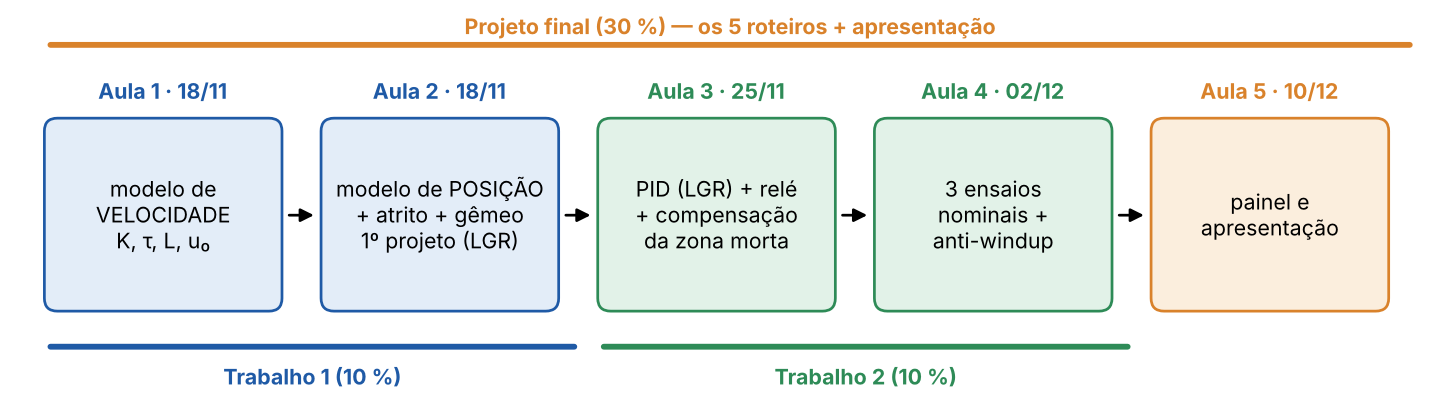
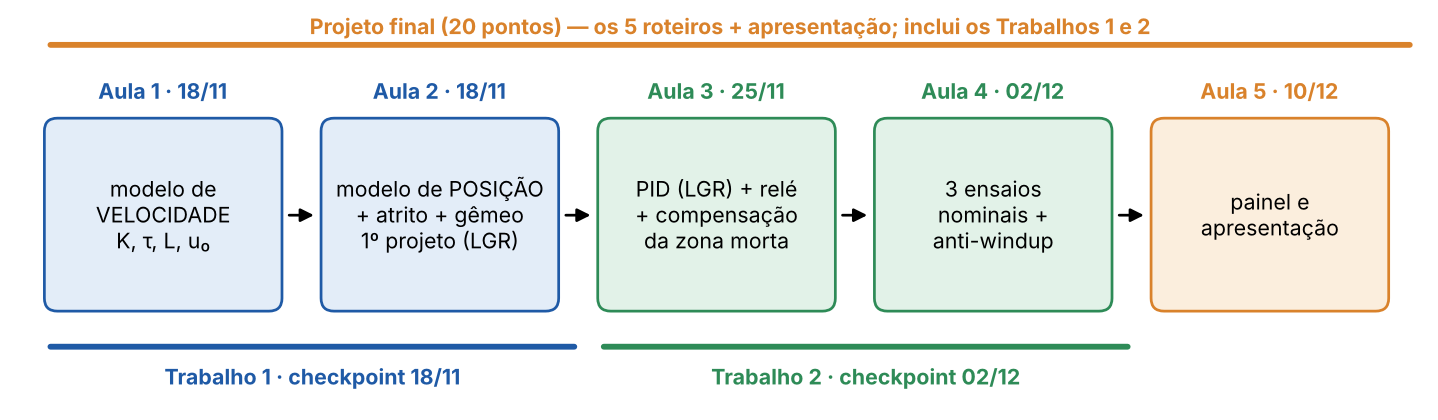
Update from https://github.com/fabiobento/lab-cont-2026-2-privado/commit/57be1e97659de1fd22e9d5a4aa9535d9d6297601

Changed region(s): [[0.2142, 0.031, 0.7955, 0.0929], [0.0918, 0.8667, 0.3366, 0.9286], [0.4896, 0.8667, 0.7038, 0.9286]]

diff --git a/projeto_final/projeto_final_motor_cc.md b/projeto_final/projeto_final_motor_cc.md
@@ -62,7 +62,7 @@ Para o **degrau de 90°** do perfil (0° → 90°):
 
 | # | Especificação | Valor |
 |---|---|---|
-| 1 | erro de regime | $`\|e_{ss}\| < 2°`$ |
+| 1 | erro de regime | $|e_{ss}| < 2°$ |
 | 2 | sobressinal | $`M_p \le 15\%`$ |
 | 3 | tempo de acomodação (critério de ±5 %) | $t_s \le 2{,}5$ s |
 | 4 | sem *windup* visível | com o PWM limitado a ±80, o sobressinal cresce no máximo **5 pontos percentuais** em relação ao ensaio nominal, com o anti-windup ligado |
@@ -104,11 +104,11 @@ sempre o mesmo computador ou levem a pasta junto.
 
 ## 6. Avaliação (por bancada)
 
-| Nota (peso na média semestral) | O que é avaliado | Quando |
+| Etapa da nota do projeto final (20 pontos no semestre) | O que é avaliado | Quando |
 |---|---|---|
-| **Trabalho 1** (10 %) | roteiros das Aulas 1 e 2: firmware e teste de sentido, calibração, FOPDT com e sem desvio, modelo de posição, zona morta e atrito, gêmeo validado, iteração 1 e a explicação da falha | Checkpoint 2 (18/11) |
-| **Trabalho 2** (10 %) | roteiros das Aulas 3 e 4: PID pelo lugar das raízes, relé e Ziegler-Nichols, compensação e robustez, especificações 1–4 na bancada, medido × simulado | Checkpoint 4 (02/12) |
-| **Projeto final** (30 %) | os 5 roteiros completos + apresentação e arguição | Aula 5 (10/12) |
+| **Trabalho 1** (checkpoint) | roteiros das Aulas 1 e 2: firmware e teste de sentido, calibração, FOPDT com e sem desvio, modelo de posição, zona morta e atrito, gêmeo validado, iteração 1 e a explicação da falha | Checkpoint 2 (18/11) |
+| **Trabalho 2** (checkpoint) | roteiros das Aulas 3 e 4: PID pelo lugar das raízes, relé e Ziegler-Nichols, compensação e robustez, especificações 1–4 na bancada, medido × simulado | Checkpoint 4 (02/12) |
+| **Projeto final** (fechamento) | os 5 roteiros completos + apresentação e arguição | Aula 5 (10/12) |
 
 **Critérios em cada nota:**
 

diff --git a/README.md b/README.md
@@ -220,13 +220,15 @@ apresentação de trabalhos. Neste curso, tomam a forma:
 
 A composição da nota semestral segue o plano de ensino da turma:
 
-| Instrumento | Peso |
+| Instrumento | Nota máxima |
 |---|---|
-| Listas de exercícios e laboratórios (apenas Módulo 1) | 50% |
-| Trabalho 1 | 10% |
-| Trabalho 2 | 10% |
-| Projeto final | 30% |
-| **Total** | **100 %** |
+| Lista 1 — Módulo 01: Introdução aos Sistemas de Controle | 25 |
+| Lab 01 — Sistemas de Controle e Modelos Matemáticos | 15 |
+| Lab 02 — Transformada de Laplace e Função de Transferência | 15 |
+| Lab 03 — Estabilidade, Realimentação e Erro em Regime | 15 |
+| Lab de Revisão — A Resposta Subamortecida e suas Fórmulas | 10 |
+| Projeto Final — Servo de Posição com Motor CC (inclui os Trabalhos 1 e 2) | 20 |
+| **Total** | **100** |
 
 Os Trabalhos 1 e 2 e o projeto final são avaliados **por bancada**, com a mesma rubrica (ensaios e
 dados 25 %, contas e código 25 %, respostas às perguntas dos roteiros 30 %, especificações 20 %; no

diff --git a/trabalhos/trabalho1_identificacao_prbs_fopdt.md b/trabalhos/trabalho1_identificacao_prbs_fopdt.md
@@ -1,7 +1,7 @@
 # Trabalho 1 — Identificação de Sistemas de 1ª Ordem com Atraso usando PRBS
 
 **Laboratório de Controle Automático — Engenharia Elétrica — Ifes Campus Guarapari**
-**Realização:** Aulas 1 e 2 do projeto final (ambas em 18/11) · **Avaliação:** por bancada, no checkpoint de 18/11 · **Peso:** 10 % da nota semestral
+**Realização:** Aulas 1 e 2 do projeto final (ambas em 18/11) · **Avaliação:** por bancada, no checkpoint de 18/11 · **Peso:** integra a nota do Projeto Final (20 pontos no semestre)
 
 ---
 

diff --git a/trabalhos/trabalho3_pid_posicao_motor_cc.md b/trabalhos/trabalho3_pid_posicao_motor_cc.md
@@ -1,7 +1,7 @@
 # Trabalho 2 — Controle PID de Posição Angular em Motor CC
 
 **Laboratório de Controle Automático — Engenharia Elétrica — Ifes Campus Guarapari**
-**Realização:** Aulas 3 e 4 do projeto final (25/11 e 02/12) · **Avaliação:** por bancada, no checkpoint de 02/12 · **Peso:** 10 % da nota semestral
+**Realização:** Aulas 3 e 4 do projeto final (25/11 e 02/12) · **Avaliação:** por bancada, no checkpoint de 02/12 · **Peso:** integra a nota do Projeto Final (20 pontos no semestre)
 
 ---
 
